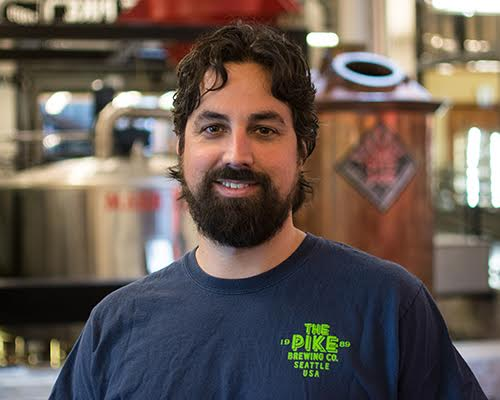
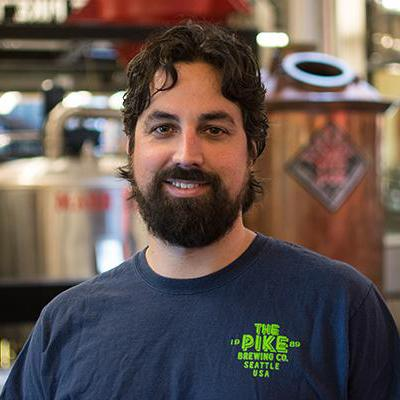
added pictures to about, made several more edits

diff --git a/app.js b/app.js
@@ -46,7 +46,7 @@ function Note (noteTitle, noteContent) {
 function newUserForm (event) {
   // event.preventDefault();
   document.getElementById('loginForm').innerHTML = '';
-  document.getElementById('loginForm').innerHTML = '<form name="loginform" id="newUser"><fieldset><legend>New User</legend><label>Username</label><input type="text" name="usr" placeholder="username" required="required"><label>Password</label><input type="password" name="pword" placeholder="password" required="required"><p id="msg"></p><br/><input type="submit" value="Create New User"/></fieldset></form><input class="button-primary" type="submit" value="Switch to Login Page" id="existingButton">';
+  document.getElementById('loginForm').innerHTML = '<form name="loginform" id="newUser"><fieldset><legend>New User</legend><label>Username</label><input type="text" name="usr" placeholder="username" required="required"><label>Password</label><input type="password" name="pword" placeholder="password" required="required"><p id="msg"></p><input class="button-primary" type="submit" value="Create New User"></fieldset></form><input class="button-primary" type="submit" value="Switch to Login Page" id="existingButton">';
   var newUserEl = document.getElementById('newUser');
   newUserEl.addEventListener('submit', function(e) {newUser(e);},false);
   var existingButton = document.getElementById('existingButton');
@@ -55,7 +55,7 @@ function newUserForm (event) {
 function returnUserForm (event) {
   // event.preventDefault();
   document.getElementById('loginForm').innerHTML = '';
-  document.getElementById('loginForm').innerHTML = '<form name="loginform" id="returnUser"><fieldset><legend>Returning User</legend><label>Username</label><input type="text" name="usr" placeholder="username" required="required"><label>Password</label><input type="password" name="pword" placeholder="password" required="required"><p id="msg"></p><br/><input type="submit" value="Login"/></fieldset></form><input class="button-primary" type="submit" value="Create New User" id="newButton">';
+  document.getElementById('loginForm').innerHTML = '<form name="loginform" id="returnUser"><fieldset><legend>Returning User</legend><label>Username</label><input type="text" name="usr" placeholder="username" required="required"><label>Password</label><input type="password" name="pword" placeholder="password" required="required"><p id="msg"></p><input class="button-primary" type="submit" value="Login"></fieldset></form><input class="button-primary" type="submit" value="Create New User" id="newButton">';
   var returnUserEl = document.getElementById('returnUser');
   returnUserEl.addEventListener('submit', function(e) {returnUser(e);},false);
   var newButton = document.getElementById('newButton');
@@ -209,9 +209,9 @@ var NoteTracker = {
     console.log('value is: ' + value);
   },
   tagsDropDown: function() {
-      var menu = '<form>Search By Tags: <select id="noteTags" onchange="NoteTracker.searchForTag(this.value)"><option value="none">None</option>';
+      var menu = '<form id="tagForm">Search By Tags: <select id="noteTags" onchange="NoteTracker.searchForTag(this.value)"><option class="tagColor" value="none">None</option>';
       for (var i = 0; i < userLibrary[userIndex].tagLibrary.length; i++) {
-        menu += '<option value="' + userLibrary[userIndex].tagLibrary[i] + '">' + userLibrary[userIndex].tagLibrary[i] + '</option>';
+        menu += '<option class-"tagColor" value="' + userLibrary[userIndex].tagLibrary[i] + '">' + userLibrary[userIndex].tagLibrary[i] + '</option>';
       }
       menu += '</select></form>';
     return menu;

diff --git a/about.html b/about.html
@@ -8,34 +8,62 @@
   </head>
   <body>
     <header>
-      <nav>
-        <a class="button button-primary navspacing" href="index.html">Login</a>
-        <a class="button button-primary" href="feedback.html">Feedback</a>
+      <div class="row">
+        <div class="one-half column">
+          <nav>
+            <a class="button button-primary navspacing" href="index.html">Logout</a>
+            <a class="button button-primary" href="feedback.html">Feedback</a>
 <!--         <a class="button button-primary" href="#">FAQ</a> -->
-        <a class="button button-primary" href="about.html">About</a>
-      </nav>
+            <a class="button button-primary" href="about.html">About</a>
+          </nav>
+        </div>
+        <div class="one-half column">
+          <img src="images/notefellows.png" class="smallLogo">
+        </div>
+      </div>
     </header>
 
-
-    <div class="row" id='info'>
-      <div class="three columns">photo</div>
-      <div class="nine columns">something about us</div>
-    </div>
-    <div class="row" id='info'>
-      <div class="three columns">photo</div>
-      <div class="nine columns">something about us</div>
-    </div>
-    <div class="row" id='info'>
-      <div class="three columns">photo</div>
-      <div class="nine columns">something about us</div>
-    </div>
-    <div class="row" id='info'>
-      <div class="three columns">photo</div>
-      <div class="nine columns">something about us</div>
-    </div>
-    <div class="row" id='info'>
-      <div class="three columns">photo</div>
-      <div class="nine columns">something about us</div>
+    <div id="section">
+      <div class="row info">
+        <div class="three columns">
+          <img class="imageSize" src="images/chris.jpg">
+        </div>
+        <div class="nine columns aboutAlign">
+          something about us
+        </div>
+      </div>
+      <div class="row info">
+        <div class="three columns">
+          <img class="imageSize" src="images/jared.jpg">
+        </div>
+        <div class="nine columns aboutAlign">
+          something about us
+        </div>
+      </div>
+      <div class="row info">
+        <div class="three columns">
+          <img class="imageSize" src="images/adam.jpg">
+        </div>
+        <div class="nine columns aboutAlign">
+          something about us
+        </div>
+      </div>
+      <div class="row info">
+        <div class="three columns">
+          <img class="imageSize" src="images/kevin.jpg">
+        </div>
+        <div class="nine columns aboutAlign">
+          something about us
+        </div>
+      </div>
+      <div class="row info">
+        <div class="three columns">
+          <img class="imageSize" src="images/connor.jpg">
+        </div>
+        <div class="nine columns aboutAlign">
+          something about us
+        </div>
+      </div>
     </div>
 
   <script src="app.js" type="text/javascript"></script>

diff --git a/css/style.css b/css/style.css
@@ -1,5 +1,33 @@
+html, body {
+  background-color: #333333;
+}
+
 .borders {
 	border: 2px solid black;
+}
+
+h1 {
+  margin-bottom: 40px;
+}
+
+nav {
+  margin-top:15px; /*needs to be adjusted*/
+}
+
+#topSpacing {
+  padding-top: 30px;
+}
+
+#logo {
+  height:150px;
+  width:150px;
+  float:right;
+}
+
+.smallLogo {
+  height: 70px;
+  width: 70px;
+  float:right;
 }
 
 .leftspacing {
@@ -15,6 +43,21 @@
     overflow-y: scroll;
     height: 500px;
     resize: none;
+    background-color: #ffffff;
+}
+
+ul {
+  list-style: none;
+}
+
+li {
+  border: 1px solid black;
+  margin-bottom:0px;
+  padding-left: 10px;
+}
+
+li:hover {
+  background-color: #E0DDD1;
 }
 
 #titleTextArea {
@@ -27,6 +70,8 @@
 #textInput {
 	height:500px;
 	width:805px;
+  background-color: #ffffff;
+  padding-left:30px;
 }
 
 #contentTextArea {
@@ -82,3 +127,25 @@ input[type="button"].button-primary:focus {
   color: #FFF;
   background-color: #C2281E;
   border-color: #C2281E; }
+
+#tagForm {
+  color: #ffffff;
+}
+
+.tagColor {
+  color: #000000;
+}
+
+.imageSize {
+  height:200px;
+  width:200px;
+  float: right;
+}
+
+.aboutAlign {
+  text-align: center;
+}
+
+.info {
+  margin-top:55px;
+}

diff --git a/notes.html b/notes.html
@@ -9,17 +9,24 @@
 
   <body>
     <header>
-      <nav>
-        <a class="button button-primary navspacing" href="index.html">Logout</a>
-        <a class="button button-primary" href="feedback.html">Feedback</a>
+      <div class="row">
+        <div class="one-half column">
+          <nav>
+            <a class="button button-primary navspacing" href="index.html">Logout</a>
+            <a class="button button-primary" href="feedback.html">Feedback</a>
 <!--         <a class="button button-primary" href="#">FAQ</a> -->
-        <a class="button button-primary" href="about.html">About</a>
-      </nav>
+            <a class="button button-primary" href="about.html">About</a>
+          </nav>
+        </div>
+        <div class="one-half column">
+          <img src="images/notefellows.png" class="smallLogo">
+        </div>
+      </div>
     </header>
 
     <main>
       <div id="content">
-        <div class="row">
+        <div class="row" id="topSpacing">
           <div class="three columns leftspacing">
             <div class="borders" id="navBrowser">
               <ul id="noteList"></ul>

diff --git a/feedback.html b/feedback.html
@@ -8,12 +8,19 @@
   </head>
   <body>
       <header>
-      <nav>
-        <a class="button button-primary navspacing" href="index.html">Login</a>
-        <a class="button button-primary" href="feedback.html">Feedback</a>
+      <div class="row">
+        <div class="one-half column">
+          <nav>
+            <a class="button button-primary navspacing" href="index.html">Logout</a>
+            <a class="button button-primary" href="feedback.html">Feedback</a>
 <!--         <a class="button button-primary" href="#">FAQ</a> -->
-        <a class="button button-primary" href="about.html">About</a>
-      </nav>
+            <a class="button button-primary" href="about.html">About</a>
+          </nav>
+        </div>
+        <div class="one-half column">
+          <img src="images/notefellows.png" class="smallLogo">
+        </div>
+      </div>
     </header>
 
   <form id='feedback'>

diff --git a/index.html b/index.html
@@ -8,6 +8,7 @@
   </head>
   <body>
       <header>
+      <img src="images/notefellows.png" id="logo">
       <h1 class="leftspacing">Welcome To Note Fellows</h1>
       <nav>
         <a class="button button-primary navspacing"  href="index.html">Home</a>
